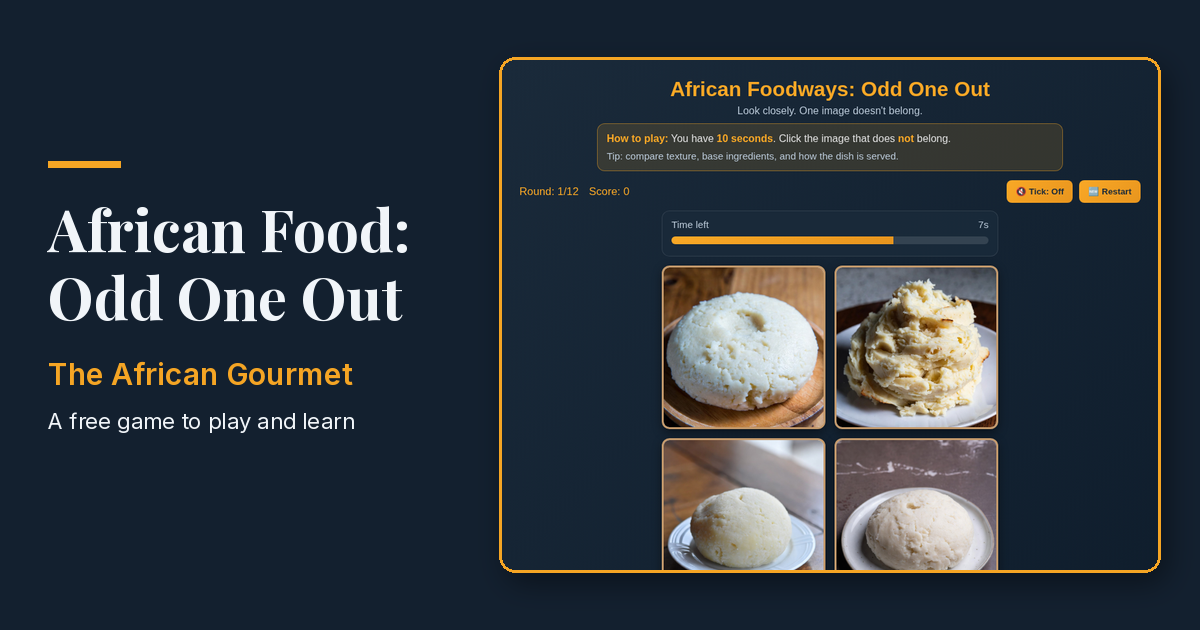
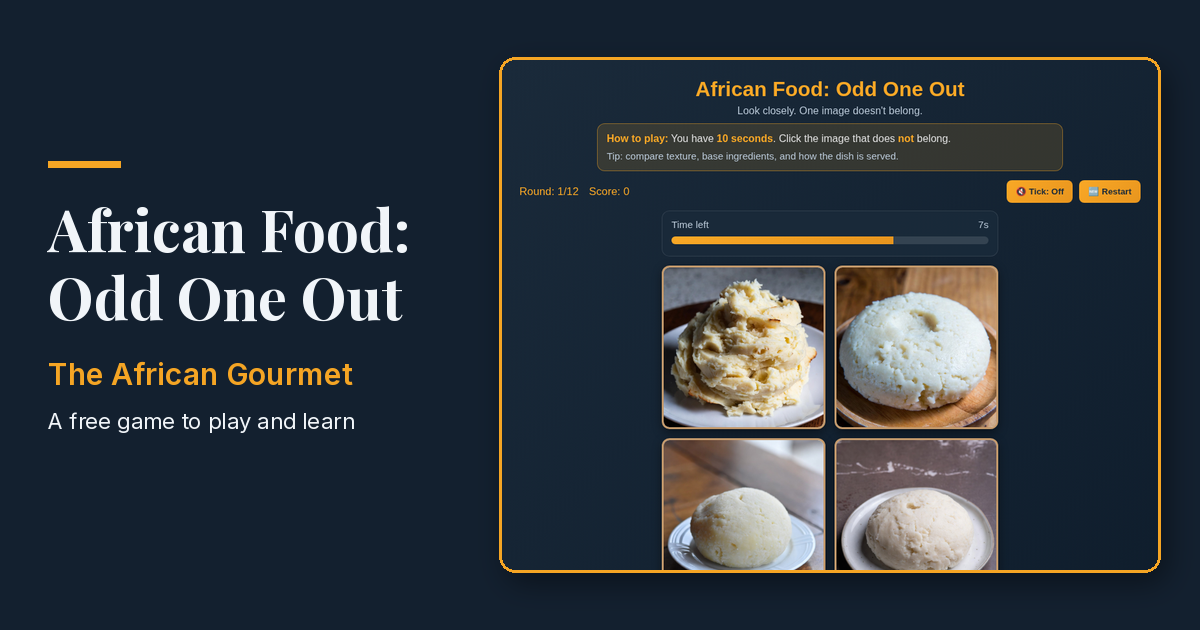
Rewrite README in a warm, plain voice; The African Gourmet branding
Rename game to African Food: Odd One Out and refresh share image

Changed region(s): [[0.555, 0.4222, 0.8325, 0.6937], [0.555, 0.1206, 0.8325, 0.1508]]

diff --git a/index.html b/index.html
@@ -3,9 +3,9 @@
 <head>
   <meta charset="UTF-8" />
   <meta name="viewport" content="width=device-width, initial-scale=1.0" />
-  <title>African Foodways: Odd One Out</title>
+  <title>African Food: Odd One Out</title>
   <meta name="description" content="Four photos, one odd one out. Spot the dish or ingredient that does not belong in 10 seconds. A free game from The African Gourmet." />
-  <meta property="og:title" content="African Food Odd One Out | The African Gourmet" />
+  <meta property="og:title" content="African Food: Odd One Out | The African Gourmet" />
   <meta property="og:description" content="Four photos, one odd one out. Spot the dish or ingredient that does not belong in 10 seconds. A free game from The African Gourmet." />
   <meta property="og:type" content="website" />
   <meta property="og:url" content="https://chicafricanculture.github.io/odd-out-match-game/" />
@@ -14,7 +14,7 @@
   <meta property="og:image:height" content="630" />
   <meta property="og:site_name" content="The African Gourmet" />
   <meta name="twitter:card" content="summary_large_image" />
-  <meta name="twitter:title" content="African Food Odd One Out | The African Gourmet" />
+  <meta name="twitter:title" content="African Food: Odd One Out | The African Gourmet" />
   <meta name="twitter:description" content="Four photos, one odd one out. Spot the dish or ingredient that does not belong in 10 seconds. A free game from The African Gourmet." />
   <meta name="twitter:image" content="https://chicafricanculture.github.io/odd-out-match-game/og-image.png" />
 
@@ -233,7 +233,7 @@
 
 <body>
   <div class="container">
-    <h1>African Foodways: Odd One Out</h1>
+    <h1>African Food: Odd One Out</h1>
     <p class="subtitle">Look closely. One image doesn't belong.</p>
 
     <div class="instructions" role="note" aria-label="How to play">

diff --git a/README.md b/README.md
@@ -1,108 +1,29 @@
-# African Foodways: Odd One Out
+# African Food: Odd One Out
 
-An educational visual literacy game exploring African food traditions.
+A looking game about African food. Each round shows four photos, and one of them doesn't belong. Spot it, then read a short note on why. You'll find fufu, jollof, yam, ugali, agege bread, cowpeas and more.
 
-🔗 Live Game: https://chicafricanculture.github.io/odd-out-match-game/
+**▶ Play it here: [https://chicafricanculture.github.io/odd-out-match-game/](https://chicafricanculture.github.io/odd-out-match-game/)**
 
----
+A free game from [The African Gourmet](https://www.theafricangourmet.com/), made to help people learn about African food through play.
 
-## About the Game
+## How to play
 
-**Spot the Odd One Out** challenges players to look closely at African dishes and identify subtle differences in texture, preparation, and presentation.
+- You have 10 seconds each round. Click the photo that doesn't belong.
+- Read the note that explains the difference, then press **Next Round**.
+- There are 12 rounds. Your score shows at the top.
+- Turn the ticking sound on or off with **Tick**, and use **Restart** to play again.
 
-Players:
-- Reveal four food images
-- Analyze visual details
-- Select the dish that does not belong
-- Learn why through short explanations
+## More from The African Gourmet
 
-This game builds:
-- Visual observation skills
-- Cultural awareness
-- Food literacy
-- Critical thinking
+- [More African food stories at The African Gourmet](https://www.theafricangourmet.com/)
+- [More games to play and learn](https://www.theafricangourmet.com/p/play-learn-african-food-games.html)
 
----
+## Licence
 
-## Why This Game Exists
+Open source for educational use. See also the LICENSE file in this repo.
 
-African food is often treated as distant, unfamiliar, or exotic.
-
-This project normalizes African cuisine by presenting it as:
-
-- Rice
-- Eggs
-- Stews
-- Grains
-- Vegetables
-- Everyday meals
-
-The goal is simple:
-To show that African food is not “other” — it is foundational, diverse, and deeply human.
+Licensed under CC BY 4.0.
 
 ---
 
-## How It Works
-
-Each round includes:
-
-- 4 images
-- 1 visual outlier
-- A short explanation after selection
-- Progressive difficulty
-
-The differences may involve:
-- Cooking method
-- Texture
-- Ingredients
-- Regional preparation
-- Plating style
-
----
-
-## Educational Focus
-
-This game is part of the broader **African Foodways Archive**, a digital preservation project that uses interactive media to explore:
-
-- Ingredients
-- Regional dishes
-- Culinary techniques
-- Cultural meaning
-
----
-
-## Technical Details
-
-- Vanilla HTML / CSS / JavaScript
-- No frameworks
-- Fully client-side
-- Designed for GitHub Pages deployment
-- Accessible keyboard support
-
----
-
-## Status
-
-Active development.
-
-Planned features:
-- Timer mode
-- Sound toggle
-- Additional rounds
-- Difficulty scaling
-- Archive expansion
-
----
-
-## License
-
-Open source for educational use.
-
----
-
-Created by Chic African Culture  
-Preserving culinary heritage through play.    <div class="footer">
-        <p>Maintained by <a href="https://www.theafricangourmet.com" style="color: #8B4513;">The African Gourmet</a> · Licensed under CC BY 4.0</p>
-        <p>Part of [SankofaKitchen](https://github.com/ChicAfricanCulture) — African foodways retrieved through play  
-[Visit my GitHub profile](https://github.com/ChicAfricanCulture) for more projects</p>
-    </div>
+Maintained by [The African Gourmet](https://www.theafricangourmet.com/).
